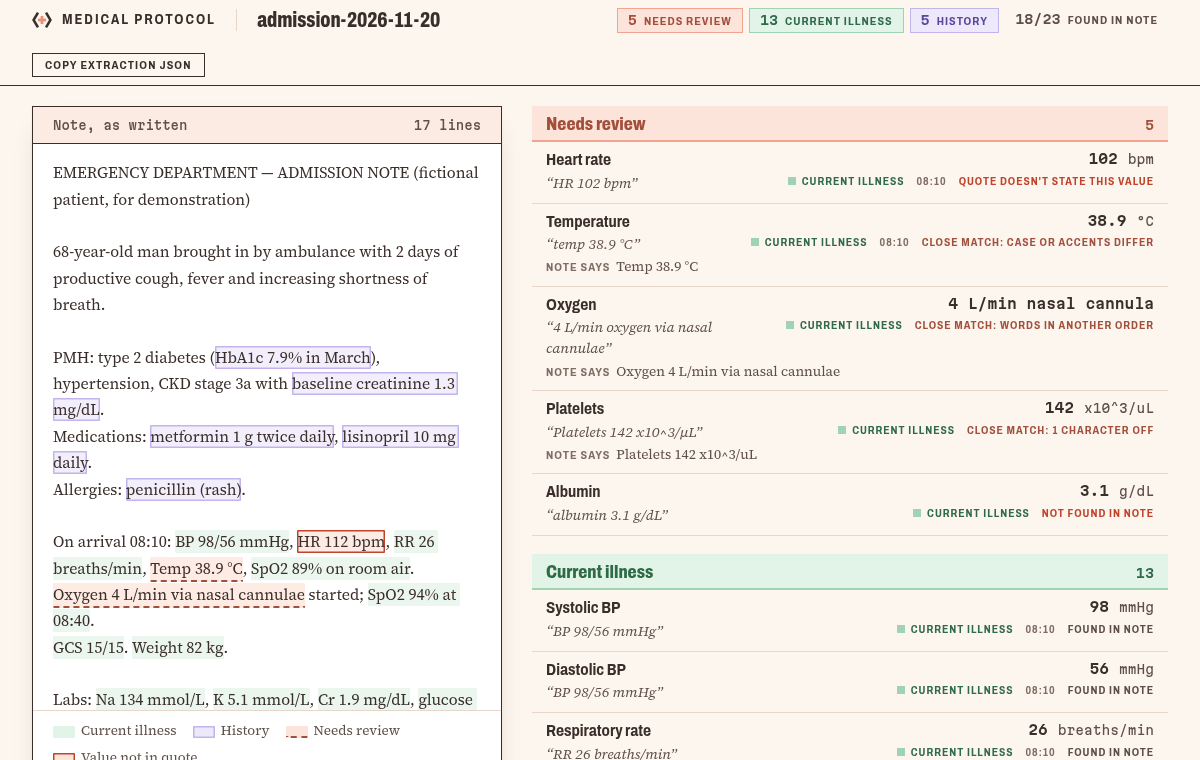
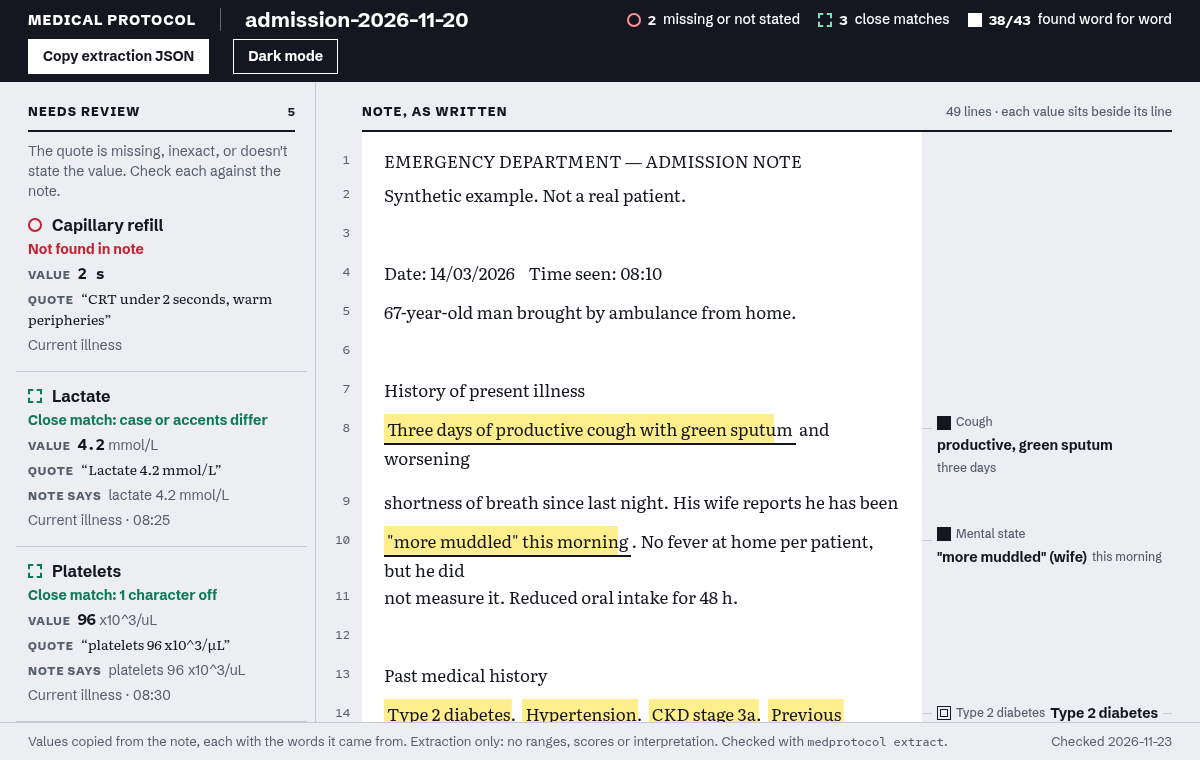
style(extraction-page): restyle page as warm-paper field sheet with one carmine accent

Changed region(s): [[0.0, 0.0, 1.0, 1.0], [0.6167, 0.2724, 0.9558, 0.3329]]

diff --git a/packages/medprotocol/src/extract-artifact.ts b/packages/medprotocol/src/extract-artifact.ts
@@ -1,7 +1,7 @@
 // The page `medprotocol extract --artifact <file>` writes: one extraction as a marked-up proof. Every
 // value is listed at left in one place (what needs review, then current illness, history, labs); the note
 // stands at right as it was written, with the words each value came from highlighted.
-// Black ink on white, yellow highlighter on the quotes, red for alarm.
+// The field sheet of the landing page (claude-medical-protocol/DESIGN.md): warm paper, ink, one carmine.
 // A standalone local file: it holds the full note and is never published.
 // __TITLE__ and __DATA__ are filled by the CLI. Kept as String.raw with no backticks or `${`.
 // `medprotocol extract --serve` serves the same page with __DATA__ = {"live":true}: it then takes the
@@ -13,30 +13,30 @@ export const EXTRACT_ARTIFACT_HTML = String.raw`<!doctype html>
 <meta name="viewport" content="width=device-width, initial-scale=1">
 <link rel="preconnect" href="https://fonts.googleapis.com">
 <link rel="preconnect" href="https://fonts.gstatic.com" crossorigin>
-<link rel="stylesheet" href="https://fonts.googleapis.com/css2?family=Literata:opsz,wght@7..72,400;7..72,600&family=Schibsted+Grotesk:wght@400;500;700;800&family=Red+Hat+Mono:wght@500;700&display=swap">
+<link rel="stylesheet" href="https://fonts.googleapis.com/css2?family=Spectral:ital@0;1&family=Fira+Sans:wght@400;600&family=Fira+Sans+Condensed:wght@700&family=Geist+Mono:wght@500&display=swap">
 <style>
 :root{
-  --ground:#eceef1; --sheet:#fff; --ink:#14171f; --ink-2:#565d6b; --line:#c6cbd3;
-  --hl:#ffee8c; --hl-on:#ffd61f; --hl-line:#14171f;
-  --bad:#c81e30; --bad-t:#fbe3e5; --close:#0b7a55;
-  --bar:#14171f; --bar-close:#7fe0bb; --bar-bad:#ff8e99;
-  --ui:"Schibsted Grotesk","Helvetica Neue",Arial,sans-serif;
-  --text:"Literata",Georgia,serif;
-  --mono:"Red Hat Mono",ui-monospace,Menlo,monospace;
+  --ground:#f1ebde; --sheet:#fbf8f2; --ink:#1d1a16; --ink-2:#5a534a; --line:#cdc3b0;
+  --hl:#e3d9c3; --hl-on:#cdc3b0; --hl-line:#1d1a16;
+  --bad:#b0182f; --bad-t:#f1d5d8;
+  --ui:"Fira Sans",system-ui,sans-serif;
+  --label:"Fira Sans Condensed","Arial Narrow",sans-serif;
+  --text:"Spectral",Georgia,serif;
+  --mono:"Geist Mono",ui-monospace,Menlo,monospace;
   --gut:max(16px,env(safe-area-inset-left,0px)); --lh:29px; --mw:35rem;
 }
 @media (prefers-color-scheme:dark){:root:not([data-theme="light"]){
-  --ground:#14171f; --sheet:#1d212b; --ink:#eceef1; --ink-2:#a6aebb; --line:#3a404d;
-  --hl:#5a4f0e; --hl-on:#8a7912; --hl-line:#ffee8c;
-  --bad:#ff7c88; --bad-t:#4a1c22; --close:#5ad6a6; --bar:#0b0d12; color-scheme:dark}}
+  --ground:#1d1a16; --sheet:#28241e; --ink:#f1ebde; --ink-2:#a89e8e; --line:#3d372f;
+  --hl:#3d372f; --hl-on:#5a534a; --hl-line:#f1ebde;
+  --bad:#e7959f; --bad-t:#4a2228; color-scheme:dark}}
 :root[data-theme="dark"]{
-  --ground:#14171f; --sheet:#1d212b; --ink:#eceef1; --ink-2:#a6aebb; --line:#3a404d;
-  --hl:#5a4f0e; --hl-on:#8a7912; --hl-line:#ffee8c;
-  --bad:#ff7c88; --bad-t:#4a1c22; --close:#5ad6a6; --bar:#0b0d12; color-scheme:dark}
+  --ground:#1d1a16; --sheet:#28241e; --ink:#f1ebde; --ink-2:#a89e8e; --line:#3d372f;
+  --hl:#3d372f; --hl-on:#5a534a; --hl-line:#f1ebde;
+  --bad:#e7959f; --bad-t:#4a2228; color-scheme:dark}
 @media (min-width:700px){:root{--gut:max(28px,env(safe-area-inset-left,0px))}}
 *{box-sizing:border-box;scrollbar-width:thin;scrollbar-color:var(--ink-2) transparent}
-body{display:grid;grid-template-rows:auto minmax(0,1fr) auto;height:100dvh;overflow:hidden;margin:0;background:var(--ground);color:var(--ink);font:400 15px/1.4 var(--ui);caret-color:var(--ink)}
-::selection{background:var(--hl);color:var(--ink)}
+body{display:grid;grid-template-rows:auto minmax(0,1fr) auto;height:100dvh;overflow:hidden;margin:0;background:var(--ground);color:var(--ink);font:400 15px/1.4 var(--ui);font-variant-numeric:tabular-nums;caret-color:var(--ink)}
+::selection{background:var(--bad);color:var(--sheet)}
 :focus-visible{outline:2px solid var(--ink);outline-offset:2px}
 h1,h2,h3,p,ol,ul{margin:0;padding:0}
 ol,ul{list-style:none}
@@ -44,18 +44,17 @@ ol,ul{list-style:none}
 .sr{position:absolute;width:1px;height:1px;overflow:hidden;clip-path:inset(50%);white-space:nowrap}
 
 /* top bar */
-.run{display:flex;flex-wrap:wrap;align-items:center;gap:8px 24px;min-height:56px;padding:8px var(--gut);padding-top:calc(8px + env(safe-area-inset-top,0px));background:var(--bar);color:#fff}
-.run :focus-visible{outline-color:#fff}
-.brand{font:800 14px/1 var(--ui);letter-spacing:.08em;text-transform:uppercase;white-space:nowrap}
-h1{font:700 21px/1.1 var(--ui);text-wrap:balance;overflow-wrap:anywhere;min-width:0;padding-left:24px;border-left:1px solid rgba(255,255,255,.35)}
-.tally{margin-left:auto;display:flex;flex-wrap:wrap;gap:4px 18px;font-weight:500;font-size:14px}
+.run{display:flex;flex-wrap:wrap;align-items:center;gap:8px 24px;min-height:52px;padding:8px var(--gut);padding-top:calc(8px + env(safe-area-inset-top,0px));border-bottom:1px solid var(--ink)}
+.brand{font:700 14px/1 var(--label);letter-spacing:.14em;text-transform:uppercase;white-space:nowrap}
+h1{font:400 23px/1.1 var(--text);text-wrap:balance;overflow-wrap:anywhere;min-width:0;padding-left:24px;border-left:1px solid var(--line)}
+.tally{margin-left:auto;display:flex;flex-wrap:wrap;gap:4px 18px;font-size:14px}
 .tally li{display:flex;align-items:center;gap:7px}
-.tally b{font:700 14px/1 var(--mono)}
+.tally b{font:500 14px/1 var(--mono)}
 .tally[hidden]~#new,.tally[hidden]~#new[hidden]~#theme{margin-left:auto}
 /* live mode: the saved notes of this folder, in a dialog */
-dialog{width:min(960px,calc(100vw - 32px));max-height:calc(100dvh - 32px);padding:0;border:1.5px solid var(--ink);background:var(--ground);color:var(--ink)}
+dialog{width:min(960px,calc(100vw - 32px));max-height:calc(100dvh - 32px);padding:0;border:1px solid var(--ink);background:var(--ground);color:var(--ink)}
 dialog[open]{display:grid;grid-template-rows:auto minmax(0,1fr) auto}
-dialog::backdrop{background:rgba(20,23,31,.55)}
+dialog::backdrop{background:rgba(29,26,22,.55)}
 dialog h2{margin:20px 20px 0}
 dialog ol{display:grid;grid-template-columns:repeat(auto-fill,minmax(min(280px,100%),1fr));align-content:start;overflow-y:auto;overscroll-behavior:contain}
 dialog li{min-width:0}
@@ -65,39 +64,33 @@ dialog a:focus-visible{outline-offset:-2px}
 .first{overflow:hidden;white-space:nowrap;text-overflow:ellipsis;font:400 16px/1.5 var(--text)}
 dialog a span+span{font-size:13px;color:var(--ink-2)}
 dialog form{display:flex;justify-content:flex-end;padding:14px 20px}
-.conn{flex-basis:100%;font-size:14px;color:var(--bar-bad)}
+.conn{flex-basis:100%;font-size:14px;color:var(--bad)}
 
-.btn{all:unset;box-sizing:border-box;cursor:pointer;padding:8px 14px;border:1.5px solid var(--ink);font:700 14px/1.2 var(--ui);color:var(--ink);white-space:nowrap;transition:background-color .15s,color .15s}
+.btn{all:unset;box-sizing:border-box;cursor:pointer;padding:8px 14px;border:1px solid var(--ink);font:600 14px/1.2 var(--ui);color:var(--ink);white-space:nowrap;transition:background-color .15s,color .15s}
 .btn:hover{background:var(--line)}
 .btn:focus-visible{outline:2px solid var(--ink);outline-offset:2px}
-.btn.fill{background:var(--ink);color:var(--ground)}
+.btn.fill{border-radius:3px;background:var(--ink);color:var(--ground)}
 .btn.fill:hover{background:var(--ink-2);border-color:var(--ink-2)}
 .btn:disabled,.btn:disabled:hover{background:transparent;border-color:var(--ink-2);color:var(--ink-2);cursor:default}
-.run .btn{background:#fff;border-color:#fff;color:#14171f}
-.run .btn:hover{background:#dfe2e7}
-.run a.btn,.run #theme,.run #pick,.run summary.btn{background:transparent;color:#fff}
-.run a.btn:hover,.run #theme:hover,.run #pick:hover,.run summary.btn:hover{background:rgba(255,255,255,.16)}
 
 /* the one ramp of marks, the same in the bar, the rail and the margin:
-   filled = found word for word, double = the same in the history, dashed = close match, ring = missing or not stated */
-.m{display:inline-block;flex:none;width:14px;height:14px;background:var(--ink)}
-.m.his{background:none;border:4px double var(--ink)}
-.m.close{background:none;border:2px dashed var(--close)}
+   small square = found word for word, framed = the same in the history, dashed = close match, ring = missing or not stated.
+   What was found is drawn small: the marks that need the eye are the carmine ones */
+.m{display:inline-block;flex:none;width:14px;height:14px;background:linear-gradient(var(--ink),var(--ink)) center/6px 6px no-repeat}
+.m.his{box-shadow:inset 0 0 0 1px var(--ink)}
+.m.close{background:none;border:2px dashed var(--bad)}
 .m.bad{background:none;border:2.5px solid var(--bad);border-radius:50%}
-.run .m{background:#fff}
-.run .m.close{background:none;border-color:var(--bar-close)}
-.run .m.bad{background:none;border-color:var(--bar-bad)}
 
 /* at left every value in one place; the note at right keeps its reading width. Each side scrolls by itself */
 main{min-height:0}
 .shell{display:grid;grid-template-columns:316px minmax(0,1fr);height:100%}
 #panes{grid-template-columns:minmax(340px,1fr) minmax(0,44rem)}
 .rail .lead,.rail .box,.step{max-width:34rem}
-.cards{display:grid;grid-template-columns:repeat(auto-fill,minmax(min(260px,100%),1fr));gap:0 36px;margin-bottom:14px}
+.cards{display:grid;grid-template-columns:repeat(auto-fill,minmax(min(260px,100%),1fr));gap:0 36px;margin-bottom:26px}
 .rail{min-height:0;overflow-y:auto;padding:0 20px 22px var(--gut);border-right:1px solid var(--line)}
-h2{display:flex;justify-content:space-between;align-items:baseline;gap:12px;padding-bottom:10px;border-bottom:2px solid var(--ink);font:800 12.5px/1.3 var(--ui);letter-spacing:.1em;text-transform:uppercase}
-h2 span,h2 b{font:500 12.5px/1.3 var(--ui);letter-spacing:0;text-transform:none;color:var(--ink-2)}
-h2 b{font:700 12px/1.3 var(--mono);color:var(--ink)}
+h2{display:flex;justify-content:space-between;align-items:baseline;gap:12px;padding-bottom:10px;border-bottom:1px solid var(--ink);font:700 12.5px/1.3 var(--label);letter-spacing:.14em;text-transform:uppercase}
+h2 span,h2 b{font:400 13px/1.3 var(--ui);letter-spacing:0;text-transform:none;color:var(--ink-2)}
+h2 b{font:500 12px/1.3 var(--mono);color:var(--ink)}
 /* the heads stack at the top of the pane as their sections scroll under them: head --i stops below the
    ones before it, and a click on it brings its section back. All are one height, so the stops are exact */
 .rail h2,.ph{position:sticky;top:calc(var(--i,0)*40px);z-index:1;height:40px;padding-top:12px;background:var(--ground);box-shadow:-12px 0 var(--ground),12px 0 var(--ground)}
@@ -108,18 +101,18 @@ h2 b{font:700 12px/1.3 var(--mono);color:var(--ink)}
 .card{margin-inline:-12px;padding:10px 12px 12px;border-bottom:1px solid var(--line);transition:background-color .15s}
 .card:hover,.card:focus-visible,.card:focus-within,.card.on{background:var(--sheet)}
 .card:focus-visible{outline-offset:-2px}
-h3{display:flex;align-items:start;gap:10px;font:700 16px/1.25 var(--ui)}
-h3 .m{margin-top:3px}
+h3{display:flex;align-items:start;gap:10px;font:400 20px/1.2 var(--text)}
+h3 .m{margin-top:5px}
 /* an answered correction steps back: its answer in words, and one button to change it */
-.card.done h3{font-weight:500}
+.card.done h3{color:var(--ink-2)}
 .card.done .st{color:var(--ink)}
 .card p{margin-top:5px;font-size:14px;color:var(--ink-2)}
-.card .st{font-weight:700}
+.card .st{font-weight:600}
 .card.bad .st{color:var(--bad)}
-.card.close .st{color:var(--close)}
-.k{margin-right:7px;font:800 11.5px/1 var(--ui);letter-spacing:.08em;text-transform:uppercase}
+.card.close .st{color:var(--bad)}
+.k{margin-right:7px;font:700 11.5px/1 var(--label);letter-spacing:.1em;text-transform:uppercase}
 /* the extracted value and the note's own numbers are set alike, to compare digit by digit */
-.n{font:700 15px/1.3 var(--mono);color:var(--ink)}
+.n{font:500 15px/1.3 var(--mono);color:var(--ink)}
 .n.x,.card.bad .cmp:first-of-type .n{color:var(--bad)}
 q{quotes:"\201C" "\201D";font-family:var(--text);color:var(--ink)}
 /* the two answers stand apart, so neither is pressed by accident */
@@ -127,42 +120,40 @@ q{quotes:"\201C" "\201D";font-family:var(--text);color:var(--ink)}
 /* the legend drops from its button in the bar: what each mark means, and how many there are */
 .lg{position:relative}
 .lg summary::-webkit-details-marker{display:none}
-.run .lg[open] summary{background:rgba(255,255,255,.16)}
-/* its panel is paper, not the bar: the marks take the page's inks again */
-.run .key .m{background:var(--ink)}
-.run .key .m.his,.run .key .m.close,.run .key .m.bad{background:none}
-.run .key .m.close{border-color:var(--close)}
-.run .key .m.bad{border-color:var(--bad)}
-.key{position:absolute;right:0;top:calc(100% + 8px);z-index:2;display:grid;gap:9px;width:max-content;max-width:min(440px,calc(100vw - 32px));padding:14px 16px;border:1.5px solid var(--ink);background:var(--ground);font-size:14px;color:var(--ink-2)}
+.run .btn:not(.fill){padding-inline:2px;border-color:transparent;font:700 12.5px/1.2 var(--label);letter-spacing:.12em;text-transform:uppercase;text-underline-offset:5px}
+.run .btn:not(.fill):hover,.lg[open] summary{background:none;text-decoration:underline}
+.key{position:absolute;right:0;top:calc(100% + 8px);z-index:2;display:grid;gap:9px;width:max-content;max-width:min(440px,calc(100vw - 32px));padding:14px 16px;border:1px solid var(--ink);background:var(--ground);font-size:14px;color:var(--ink-2)}
 .key li{display:grid;grid-template-columns:14px auto 1fr;align-items:baseline;gap:9px}
 .key .m{align-self:start;margin-top:3px}
-.key b{font:700 14px/1 var(--mono);color:var(--ink)}
+.key b{font:500 14px/1 var(--mono);color:var(--ink)}
 
 /* the proof: the note as it was written, one sheet of raw text; only the quotes are marked */
 .proof{display:grid;grid-template-rows:auto minmax(0,1fr);min-width:0;min-height:0;padding:0 var(--gut) 0 28px}
-#note{overflow-y:auto;padding:18px 24px 28px;background:var(--sheet);font:400 17px/var(--lh) var(--text);white-space:pre-wrap;overflow-wrap:anywhere}
+#note{overflow-y:auto;padding:18px 24px 28px;background:var(--sheet);font:400 18px/var(--lh) var(--text);white-space:pre-wrap;overflow-wrap:anywhere}
 mark{color:var(--ink);background:linear-gradient(var(--hl),var(--hl)) 0 0/100% 100% no-repeat;padding:2px 3px;border-bottom:2px solid var(--hl-line);-webkit-box-decoration-break:clone;box-decoration-break:clone;cursor:pointer}
 mark.his{border-bottom:4px double var(--hl-line)}
-mark.close{background:none;border-bottom:2px dashed var(--close)}
+mark.close{background:none;border-bottom:2px dashed var(--bad)}
 mark.bad{--hl:var(--bad-t);border-bottom:0;box-shadow:inset 0 0 0 2px var(--bad)}
 mark.on{--hl:var(--hl-on);outline:2px solid var(--ink);outline-offset:1px}
 /* a group of values reads like a lab sheet, across then down, in as many columns as fit:
    field at left, the figure and its unit in fixed places at right, so figures line up */
-.vals{display:grid;grid-template-columns:repeat(auto-fill,minmax(min(15rem,100%),1fr));gap:0 36px;margin-bottom:14px}
-.e{display:grid;grid-template-columns:14px minmax(0,1fr) auto;align-content:start;align-items:baseline;gap:0 8px;margin-inline:-6px;padding:5px 6px;border-bottom:1px solid var(--line);font-size:13px;font-weight:500;color:var(--ink-2);cursor:pointer;transition:background-color .15s}
+.vals{display:grid;grid-template-columns:repeat(auto-fill,minmax(min(15rem,100%),1fr));gap:0 36px;margin-bottom:26px}
+.e{display:grid;grid-template-columns:14px fit-content(100%) minmax(0,1fr) auto;align-content:start;align-items:baseline;gap:0 6px;margin-inline:-6px;padding:6px 6px 7px;border-bottom:1px solid var(--line);font-size:13px;color:var(--ink-2);cursor:pointer;transition:background-color .15s}
 .e .m{align-self:start;margin-top:3px}
 .e:hover,.e:focus-visible,.e.on{background:var(--hl);color:var(--ink)}
 .e:focus-visible{outline-offset:-2px}
-.val{text-align:right;white-space:nowrap}
+.val{grid-column:4;text-align:right;white-space:nowrap}
+.e:not(.t)::after{content:"";grid-area:1/3;border-bottom:1px dotted;opacity:.45;transform:translateY(-3px)}
 /* a value in words is read, not compared: under its field, at text weight */
-.e.t .val{grid-column:2/-1;text-align:left;white-space:normal}
+.e.t>span{grid-column:2/-1}
+.e.t .val{text-align:left;white-space:normal}
 /* the figure is the largest thing in an entry */
-.v{font:700 15px/1.3 var(--mono);color:var(--ink)}
-.v.txt{font:500 14px/1.35 var(--ui)}
+.v{font:500 15px/1.3 var(--mono);color:var(--ink)}
+.v.txt{font:400 14.5px/1.35 var(--ui)}
 .e small,.e .why{margin-left:5px;font-size:12px}
 .e .u{display:inline-block;min-width:5ch;text-align:left}
 .e.bad,.e.bad .v{color:var(--bad)}
-.e.close .why{color:var(--close)}
+.e.close .why{color:var(--bad)}
 .e:hover.bad,.e.on.bad{background:var(--bad-t)}
 @media (prefers-reduced-motion:no-preference){
   /* the highlighter is drawn across each quote once, when the note first appears */
@@ -172,22 +163,22 @@ mark.on{--hl:var(--hl-on);outline:2px solid var(--ink);outline-offset:1px}
 
 /* live mode only (extract --serve): the intake form, the steps, the failed box */
 .in .proof{grid-template-rows:auto minmax(160px,1fr) auto}
-textarea{display:block;max-width:calc(var(--mw) + 48px);width:100%;padding:14px 24px;border:1px solid var(--line);resize:none;background:var(--sheet);color:var(--ink);font:400 17px/var(--lh) var(--text)}
+textarea{display:block;max-width:calc(var(--mw) + 48px);width:100%;padding:14px 24px;border:1px solid var(--line);resize:none;background:var(--sheet);color:var(--ink);font:400 18px/var(--lh) var(--text)}
 textarea:focus-visible{outline-offset:0}
 textarea::placeholder{color:var(--ink-2);font-style:italic}
 .send{display:grid;gap:16px;max-width:calc(var(--mw) + 48px);padding:18px 0 22px}
 .agree{display:flex;align-items:flex-start;gap:12px;color:var(--ink-2);cursor:pointer}
 /* a square in a frame, like the marks */
-.agree input{appearance:none;flex:none;width:18px;height:18px;margin:2px 0 0;border:1.5px solid var(--ink);background:var(--sheet);cursor:pointer;transition:background-color .15s}
+.agree input{appearance:none;flex:none;width:18px;height:18px;margin:2px 0 0;border:1px solid var(--ink);background:var(--sheet);cursor:pointer;transition:background-color .15s}
 .agree input:checked{background:var(--ink);box-shadow:inset 0 0 0 3px var(--sheet)}
 .go{display:flex;flex-wrap:wrap;align-items:center;gap:8px 14px;font-size:14px;color:var(--ink-2)}
 .go .btn{padding:10px 20px}
 /* the steps: done is a tick, now is the spinner, next is its number */
 .step{display:grid;grid-template-columns:22px minmax(0,1fr);gap:2px 12px;padding:12px 0;border-bottom:1px solid var(--line)}
-.step b{font:700 16px/1.25 var(--ui)}
+.step b{font:600 16px/1.25 var(--ui)}
 .step p{grid-column:2;font-size:14px;color:var(--ink-2)}
 .step.next b{color:var(--ink-2)}
-.tr{display:grid;place-items:center;width:22px;height:22px;border:1.5px solid var(--ink-2);font:700 11px/1 var(--mono);color:var(--ink-2)}
+.tr{display:grid;place-items:center;width:22px;height:22px;border:1px solid var(--ink-2);font:500 11px/1 var(--mono);color:var(--ink-2)}
 .tr.ok{border-color:var(--ink);background:var(--ink)}
 .tr svg{width:14px;height:14px;fill:none;stroke:var(--ground);stroke-width:2.2;stroke-linecap:square}
 .tr.now{border:0}
@@ -195,7 +186,7 @@ textarea::placeholder{color:var(--ink-2);font-style:italic}
 .spin,.btn[aria-busy="true"]::before{content:"";display:inline-block;flex:none;width:16px;height:16px;border:2px solid var(--ink);background:conic-gradient(var(--ink) 25%,transparent 0)}
 .btn[aria-busy="true"]::before{width:10px;height:10px;margin-right:8px;border:1.5px solid currentColor;vertical-align:-1px;background:conic-gradient(currentColor 25%,transparent 0)}
 .busy .ph{position:relative}
-.busy .ph::after{content:"";position:absolute;left:0;bottom:-2px;width:28%;height:2px;background:var(--hl-on)}
+.busy .ph::after{content:"";position:absolute;left:0;bottom:-2px;width:28%;height:2px;background:var(--bad)}
 pre{margin:10px 0 0;white-space:pre-wrap;overflow-wrap:anywhere;font:500 12.5px/1.5 var(--mono);color:var(--ink-2)}
 .box{display:grid;justify-items:start;gap:14px;padding-top:4px}
 @media (prefers-reduced-motion:no-preference){
@@ -238,7 +229,7 @@ footer code{font:500 12px var(--mono)}
   <button class="btn" id="pick" type="button" hidden>Saved notes</button>
   <ul class="tally" id="tally" aria-label="Counts"></ul>
   <details class="lg" id="legend"><summary class="btn">Legend</summary><ul class="key" id="key"></ul></details>
-  <button class="btn" id="copy" type="button">Copy extraction JSON</button>
+  <button class="btn fill" id="copy" type="button">Copy extraction JSON</button>
   <a class="btn" id="new" href="#" hidden>New note</a>
   <button class="btn" id="theme" type="button">Dark mode</button>
   <p class="conn" id="conn" role="alert" hidden>Lost the connection to the local server. Start it again with medprotocol extract --serve.</p>
